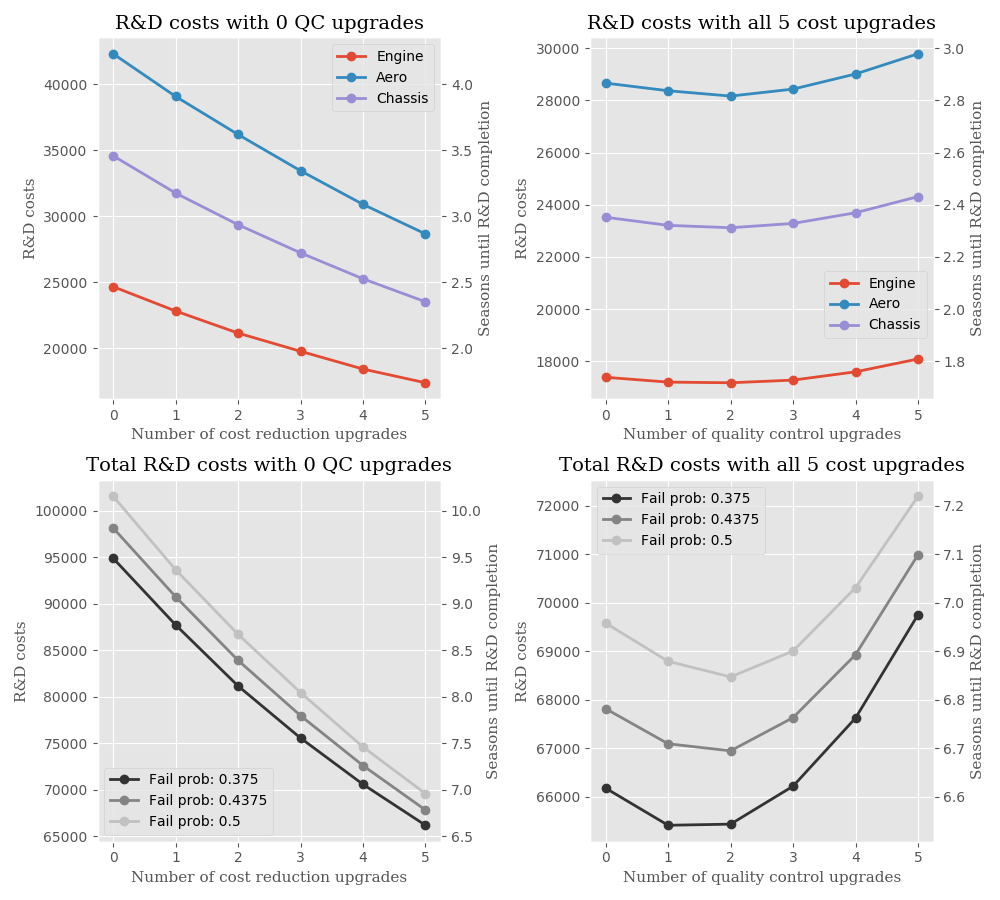
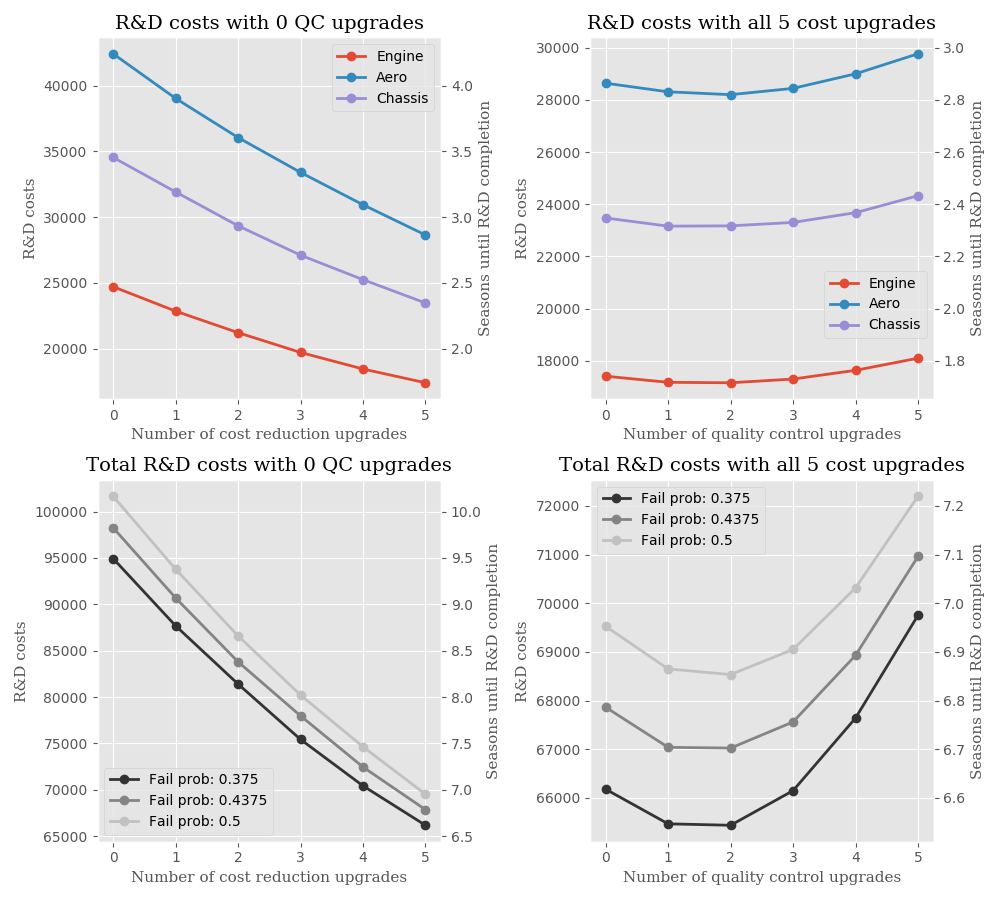
Minor updates.

diff --git a/rnd_statistics.py b/rnd_statistics.py
@@ -92,8 +92,8 @@ for num_pf in range(len(p_fails)):
             max_cost_all_dep += max_dep.total_cost
             min_cost_all_dep += min_dep.total_cost
 
-stats_str += "\n\n\nTotal amount of resource points needed for full R&D completion"
-stats_str += "\n--------------------------------------------------------------"
+stats_str += "\n\n\nTotal resource points needed for full R&D completion in engine, aero and chassis department"
+stats_str += "\n------------------------------------------------------------------------------------------"
 stats_str += "\nUsing most expensive development path:"
 stats_str += "\nTotal costs:\t{:>10.0f}".format(max_cost_all_dep)
 stats_str += "\nWeekends:\t{:>10.0f}".format(max_cost_all_dep/rpoints_per_weekend)
@@ -103,6 +103,21 @@ stats_str += "\n\nUsing least expensive development path:"
 stats_str += "\nTotal costs:\t{:>10.0f}".format(min_cost_all_dep)
 stats_str += "\nWeekends:\t{:>10.0f}".format(min_cost_all_dep/rpoints_per_weekend)
 stats_str += "\nSeasons:\t{:>10.1f}".format(min_cost_all_dep/(rpoints_per_weekend*num_race_weekends))
+
+max_including_durability = max_cost_all_dep + dp.Department.durability_upg_cost
+min_including_durability = min_cost_all_dep + dp.Department.durability_upg_cost
+
+stats_str += "\n\n\nTotal resource points needed for full R&D completion also including durability department"
+stats_str += "\n------------------------------------------------------------------------------------------"
+stats_str += "\nUsing most expensive development path:"
+stats_str += "\nTotal costs:\t{:>10.0f}".format(max_including_durability)
+stats_str += "\nWeekends:\t{:>10.0f}".format(max_including_durability/rpoints_per_weekend)
+stats_str += "\nSeasons:\t{:>10.1f}".format(max_including_durability/(rpoints_per_weekend*num_race_weekends))
+
+stats_str += "\n\nUsing least expensive development path:"
+stats_str += "\nTotal costs:\t{:>10.0f}".format(min_including_durability)
+stats_str += "\nWeekends:\t{:>10.0f}".format(min_including_durability/rpoints_per_weekend)
+stats_str += "\nSeasons:\t{:>10.1f}".format(min_including_durability/(rpoints_per_weekend*num_race_weekends))
 
 print(stats_str)
 

diff --git a/rnd_department.py b/rnd_department.py
@@ -7,6 +7,7 @@ class Department(object):
     and methods for computing the resource point usage when purchasing all upgrades."""
     departments = ["engine", "aero", "chassis"]
     upgrade_costs = {"minor": 1000.0, "major": 1500.0, "ultimate": 2000.0}
+    durability_upg_cost = 23*500   # Holds total cost of the durability department
 
     def __init__(self, department_type, cost_reduc, fail_reduc, p_fail):
         self.dep_type = department_type
@@ -17,7 +18,7 @@ class Department(object):
         self.p_fail_reduc = 0.075
         self.p_fail = p_fail - self.fail_reduc*self.p_fail_reduc
 
-        self.total_cost = None      # To hold total cost of development
+        self.total_cost = None              # To hold total cost of a performance department
 
         if (department_type == Department.departments[0]):
             self.upgrades = {"minor": 9, "major": 4, "ultimate": 2}

diff --git a/README.md b/README.md
@@ -1,4 +1,5 @@
 # Simulation of Research and Development in F1 2017
+
 Scripts for conducting statistical simulations of the R&D process in F1 2017. The aim is
 to gain insights into the optimal way to spend resource points in order to develop
 the car in the fastes possible way. The results from running the script is output data in a
@@ -7,11 +8,17 @@ and quality control extra upgrades. In the case where cost reduction or quality 
 are bought, they are assumed to be purchased at the very start of the R&D process (because this
 would be cheaper than buying them later in the process if you're going to buy them anyway).
 
-Feel free to change some of the parameters to see how they affect the results. In particular,
-the parameter p_fail (describing the probability that an upgrade will fail on its first attempt
-before any quality control extra upgrades are applied) is the only uncertain parameter in the
-simulation. Based on the wuality control upgrades reducing failure probability by 0.075, it seems
-like p_fail must at least be 0.375 and is most likely not larger than 0.5. Below is and example
-result of the simulation:
+The only uncertain parameters in the simulation, the parameter p_fail (describing the probability
+that an upgrade will fail on its first attempt before any quality control extra upgrades are applied)
+and the rate at which the fail probability decreases once it has already failed. Based on the quality
+control upgrades reducing failure probability by 0.075, it seems like p_fail must at leastbe 0.375 and
+is most likely not larger than 0.5. Below are the results for a range of p_fails between these values
+plottet. Also assumed in the model is that the probability for an upgrade to fail once it has already
+failed gets reduced by 50%. This occurs if the upgrade would fail a second time as well. Currently
+upgrades are set to succeed on the third attempt, i.e. the fail probability is zer on the third attempt
+at an upgrade.
+
+Feel free to play around with the parameters and see how they affect the results. Below is an example
+of the results of the simulation.
 
 ![Visualization of R&D simulation](results_visual.png)
